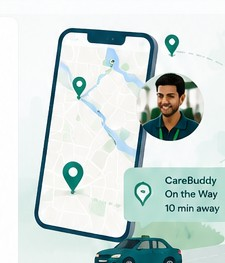
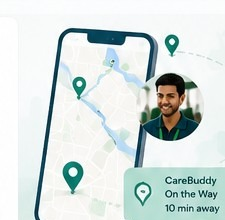
Enlarge CareBuddy-on-the-way visual, swap its car for a bike tag
Displayed the pre-launch phone mockup bigger (280px -> 360px). Since
there's no image-generation/editing tool available to alter pixels
inside the source JPEG, cropped out the car illustration baked into
the bottom of that photo and added a real "On the way by bike" HTML
tag below the image instead of editing the car directly.

Also widens the CareBuddy section's intro paragraph (was capped at
max-w-xl) so it uses the full column width now that the photo column
is narrower, fixing an awkward wrap gap after "non-clinical healthcare".

diff --git a/components/home/PreLaunchVisual.tsx b/components/home/PreLaunchVisual.tsx
@@ -1,24 +1,32 @@
 import Image from "next/image";
+import { Bike } from "lucide-react";
 
 /**
  * Conceptual "CareBuddy on the way" visualization, cropped directly from the
  * approved reference design (docs/Samay Care PreLaunch.png) rather than
  * redrawn, per docs/SAMAY_CARE_PHASE1_WEBSITE_CLAUDE_CODE.md §19 — no real
- * location data, purely illustrative.
+ * location data, purely illustrative. Further cropped to drop the car
+ * illustration baked into that source photo; the bike tag below stands in
+ * for it as a real HTML element since the vehicle can't be edited inside
+ * the JPEG itself.
  */
 export function PreLaunchVisual() {
   return (
     <div className="hidden h-full flex-col items-center justify-center lg:flex">
-      <div className="relative aspect-[225/263] w-full max-w-[280px] overflow-hidden rounded-2xl">
+      <div className="relative aspect-[225/220] w-full max-w-[360px] overflow-hidden rounded-2xl">
         <Image
           src="/images/carebuddy-on-the-way.jpg"
           alt="Illustration of a map on a phone screen with a CareBuddy's photo, showing CareBuddy on the way, 10 minutes away"
           fill
-          sizes="280px"
+          sizes="360px"
           className="object-contain"
         />
       </div>
-      <p className="mt-3 text-center text-[11px] text-text-muted">Conceptual visualization — not live location data.</p>
+      <span className="mt-3 inline-flex items-center gap-1.5 rounded-full bg-teal-dark px-3 py-1.5 text-xs font-semibold text-white shadow-sm">
+        <Bike className="h-3.5 w-3.5" strokeWidth={2} aria-hidden="true" />
+        On the way by bike
+      </span>
+      <p className="mt-2 text-center text-[11px] text-text-muted">Conceptual visualization — not live location data.</p>
     </div>
   );
 }

diff --git a/components/home/MeetCareBuddy.tsx b/components/home/MeetCareBuddy.tsx
@@ -80,7 +80,7 @@ export function MeetCareBuddy() {
             <p className="mt-2 text-lg font-semibold text-navy">
               A trusted person on the ground when you can&apos;t be there.
             </p>
-            <p className="mt-1.5 max-w-xl text-base leading-7 text-text-muted">
+            <p className="mt-1.5 text-base leading-7 text-text-muted">
               Your CareBuddy helps your loved one navigate the non-clinical healthcare journey while
               keeping the family informed every step of the way.
             </p>
